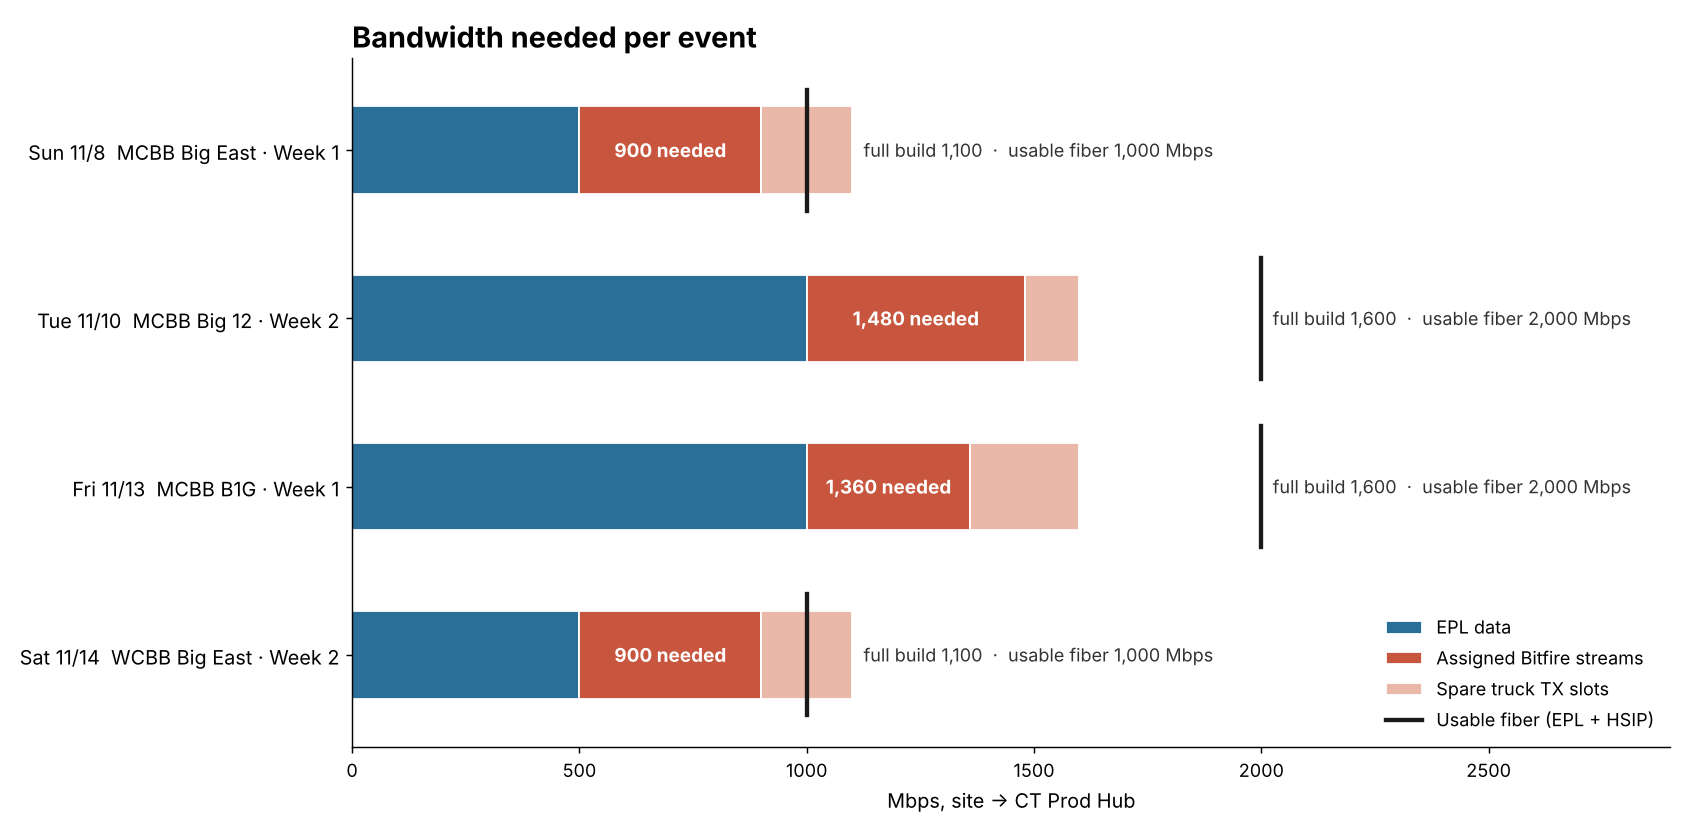
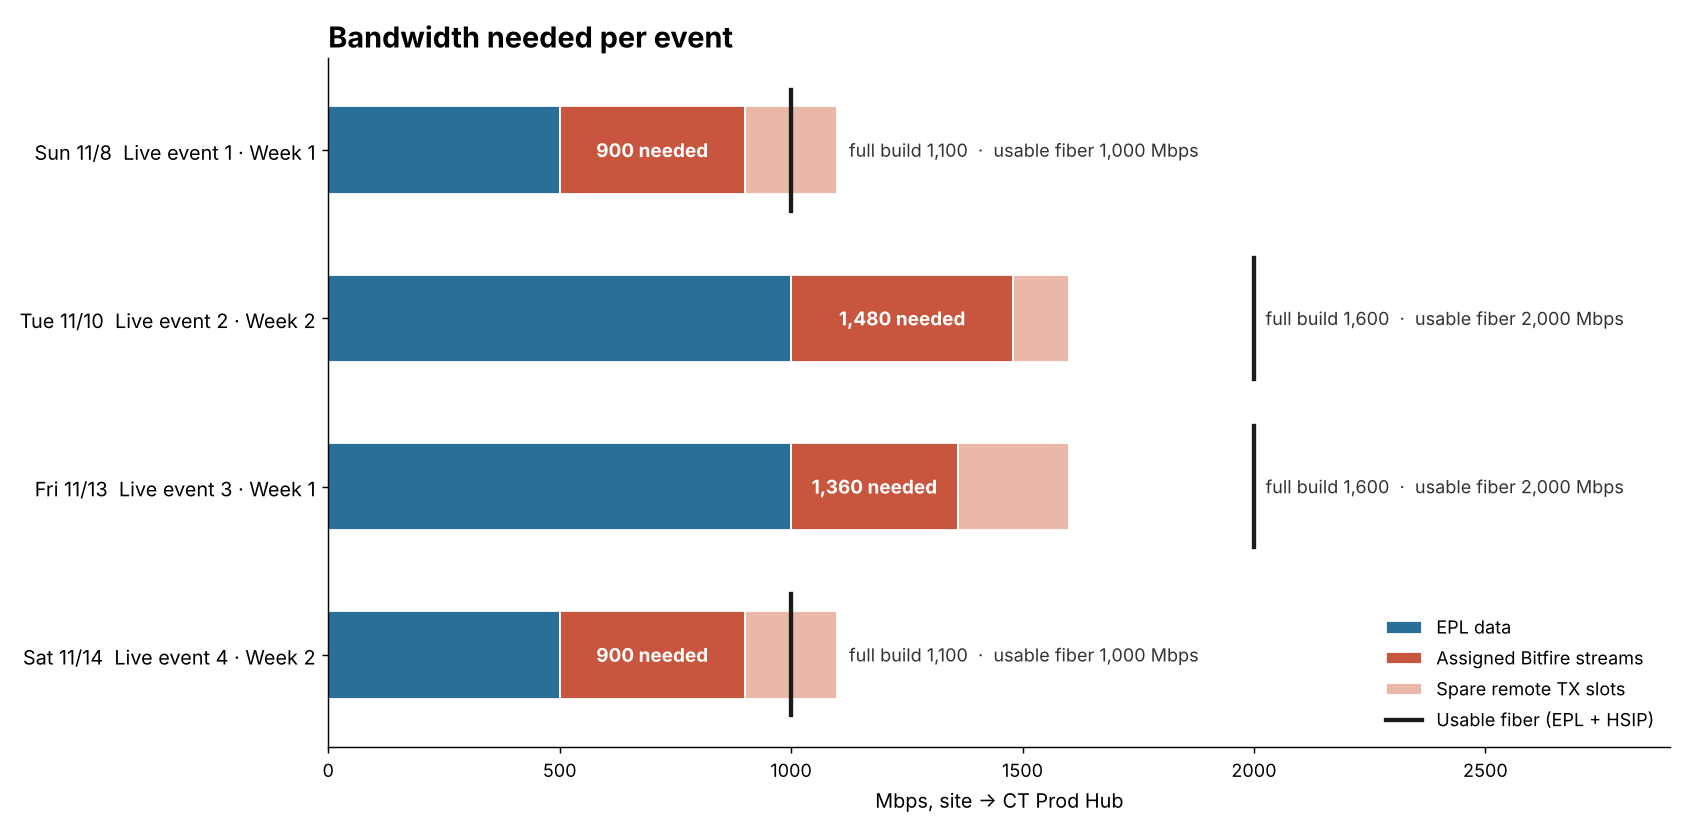
demand-forecast: generic live events and remotes
Events are now Live event 1-4 with the event week, remotes are Remote 1-4,
and no sport, league, team, venue or vendor names appear in the outputs.

Claude-Session: https://claude.ai/code/session_011mjtxrCPiFfQrJvPDMx1Rm

diff --git a/demand-forecast/demand_forecast_model.py b/demand-forecast/demand_forecast_model.py
@@ -2,8 +2,8 @@
 demand-forecast — NetworkX model of per-event bandwidth from the BOC
 event workbooks (demand-forecast/*.xlsx).
 
-Each workbook is one remote production. The program reads two sheets:
-  * BOC          event name, date, game time, TX window, network, truck, PCRs
+Each workbook is one remote live sports production. The program reads two sheets:
+  * BOC          event name, date, game time, TX window, network, remote (truck), PCRs
   * Connectivity data circuits (EPL, Bitfire HSIP), Bitfire streams in each
                  direction, bonded-cellular (LiveU) streams
 
@@ -12,15 +12,15 @@ Bandwidth rules (all in Mbps)
     such as "WE TAKE 500MB" caps the usable rate at that figure.
   * A Bitfire stream marked "*40" is 40 Mbps.
   * A stream is ASSIGNED when it has a description (other than "Unassigned")
-    or a destination port; otherwise it is a SPARE encoder slot on the truck.
+    or a destination port; otherwise it is a SPARE encoder slot on the remote.
   * Needed  = EPL data + assigned Bitfire streams (site -> CT Prod Hub).
   * Full build = EPL data + every Bitfire slot listed (assigned + spare).
   * Bonded cellular (LiveU) rides the cellular network, not the fiber, and
     is reported separately.
 
 Every circuit and every stream is its own edge in a MultiGraph:
-    TRUCK -- carrier -- CT PROD HUB   (EPL, HSIP circuit, one edge per stream)
-    TRUCK -- LiveU cellular -- CT PROD HUB
+    REMOTE -- carrier -- CT PROD HUB   (EPL, HSIP circuit, one edge per stream)
+    REMOTE -- LiveU cellular -- CT PROD HUB
 
 Graphics (straight lines only, every line checked for visibility):
   * bandwidth_per_event.png   stacked bars: needed vs full build vs circuit
@@ -50,7 +50,7 @@ from matplotlib.patches import Circle, FancyBboxPatch
 
 HERE = os.path.dirname(os.path.abspath(__file__))
 STREAM_MBPS = 40           # "*40" Bitfire stream
-HUB = "CT Prod Hub"        # production hub the trucks feed (sanitized name)
+HUB = "CT Prod Hub"        # production hub the remotes feed (sanitized name)
 YEAR = 2026
 BLACK = "#1a1a1a"
 C_EPL, C_UP, C_SPARE, C_DOWN, C_CELL = "#2a6f97", "#c8553d", "#e9b8a9", "#588157", "#8a6fb3"
@@ -154,7 +154,7 @@ def load_event(path):
     boc = boc_fields(wb["BOC"])
     rows = connectivity(wb["Connectivity"])
     start, end = parse_window(boc.get("TX WINDOW", ""))
-    truck = re.sub(r"^(GCV|GVC|LMG)\s*-?\s*", "", boc.get("TRUCK", ""), flags=re.I).strip()
+    truck = re.sub(r"^[A-Z]{3}\s*-?\s*(?=\S)", "", boc.get("TRUCK", "").upper()).strip()   # drop vendor prefix
     ev = dict(file=os.path.basename(path), series=boc["SERIES"], matchup=event_type(path, boc["WEEK"]),
               date=boc.get("DATE", ""), game_time=boc.get("GAME TIME", ""),
               network=boc.get("NETWORK", ""), truck=boc.get("TRUCK", ""), truck_short=truck,
@@ -202,7 +202,7 @@ def load_event(path):
             u = (port + " " + r["route"]).upper()
             if truck and port and truck_key(truck) not in port.upper():
                 who = truck_key(re.sub(r"\s*[TR]X.*$", "", port.upper()))
-                others.setdefault(f"truck {who.title()}", []).append(r["label"])
+                others.setdefault("another remote's ports", []).append(r["label"])
             elif ev["venue"] and ev["venue"].upper() not in u:
                 hops = [p for p in r["route"].upper().split(">") if "BITFIRE" in p]
                 who = hops[:1] if r["section"] == "bf_up" else hops[-1:]
@@ -212,7 +212,7 @@ def load_event(path):
         ev["flags"].append(f"rows {', '.join(sorted(set(labs)))} still name {who} (copied from another event)")
     dups = [r["label"] for r in rows if r["dup"]]
     if dups:
-        ev["flags"].append(f"rows {', '.join(dups)} repeat a truck slot already listed (counted once)")
+        ev["flags"].append(f"rows {', '.join(dups)} repeat a remote TX/RX slot already listed (counted once)")
     rows[:] = [r for r in rows if not r["dup"]]
 
     up = [r for r in rows if r["section"] == "bf_up"]
@@ -241,16 +241,17 @@ def load_event(path):
 
 
 def event_type(path, series):
-    """'MCBB Big East · Week 1' from the file name and BOC series; no team names."""
-    m = re.search(r"\b([MW]CBB)\b", os.path.basename(path).replace("_", " ").upper())
-    kind = m.group(1) if m else "CBB"
-    conf = re.sub(r"\s*Basketball.*$", "", series, flags=re.I).strip()
+    """'Week 1' from the BOC series line; no sport, league or team names.
+    Events are numbered 'Live event 1..n' in date order once all are loaded."""
     wk = re.search(r"WEEK\s*(\d+)", series, re.I)
-    return f"{kind} {conf}" + (f" · Week {wk.group(1)}" if wk else "")
+    return f"Week {wk.group(1)}" if wk else ""
 
 
 def truck_key(truck):
-    words = [w for w in re.findall(r"[A-Z]{2,}", truck.upper()) if w not in ("GCV", "GVC", "LMG")]
+    """Distinctive word of a remote's name (vendor prefix skipped) for port matching."""
+    words = re.findall(r"[A-Z]{2,}", truck.upper())
+    if len(words) > 1 and len(words[0]) == 3:
+        words = words[1:]
     return words[0] if words else truck.upper()
 
 
@@ -309,7 +310,7 @@ def draw_bars(events, out):
     y = range(len(events))
     left = [0] * len(events)
     for key, color, lab in (("epl", C_EPL, "EPL data"), ("up_assigned", C_UP, "Assigned Bitfire streams"),
-                            ("up_spare", C_SPARE, "Spare truck TX slots")):
+                            ("up_spare", C_SPARE, "Spare remote TX slots")):
         vals = [ev[key] for ev in events]
         ax.barh(y, vals, left=left, color=color, height=0.52, label=lab, edgecolor="white", lw=1)
         left = [a + b for a, b in zip(left, vals)]
@@ -504,7 +505,7 @@ def report(events, g, peak, vis):
     w(f"Bitfire stream = {STREAM_MBPS} Mbps.  Needed = EPL + assigned site->CT Prod Hub streams.")
     w(f"Graph: {g.number_of_nodes()} nodes, {g.number_of_edges()} edges (one per circuit or stream per hop)")
     w("")
-    w(f"{'Date':6} {'Event':32} {'Truck':14} {'EPL':>5} {'HSIP':>5} {'TX a/t':>7} {'Up':>5} "
+    w(f"{'Date':6} {'Event':32} {'Remote':14} {'EPL':>5} {'HSIP':>5} {'TX a/t':>7} {'Up':>5} "
       f"{'RX a/t':>7} {'Down':>5} {'Needed':>7} {'Full':>6} {'HSIP%':>6} {'Full%':>6} Cell")
     for ev in events:
         w(f"{ev['game_day']:%m/%d} {ev['matchup'][:32]:32} {ev['truck'][:14]:14} {ev['epl']:5.0f} "
@@ -526,7 +527,7 @@ def report(events, g, peak, vis):
 
 
 def write_csv(events, path):
-    cols = ["date", "event", "network", "truck", "carrier", "tx_start", "tx_end", "epl_mbps",
+    cols = ["date", "event", "network", "remote", "carrier", "tx_start", "tx_end", "epl_mbps",
             "hsip_mbps", "tx_assigned", "tx_slots", "up_assigned_mbps", "up_spare_mbps",
             "rx_assigned", "rx_slots", "down_assigned_mbps", "needed_mbps", "full_build_mbps",
             "fiber_usable_mbps", "hsip_util", "hsip_full_util", "liveu_up", "liveu_down"]
@@ -550,6 +551,9 @@ def main(argv=None):
     files = a.xlsx or sorted(glob.glob(os.path.join(HERE, "*.xlsx")))
     os.makedirs(a.out, exist_ok=True)
     events = sorted((load_event(f) for f in files), key=lambda e: e["game_day"])
+    for i, ev in enumerate(events):
+        ev["matchup"] = f"Live event {i + 1}" + (f" · {ev['matchup']}" if ev["matchup"] else "")
+        ev["truck"] = ev["truck_short"] = f"Remote {i + 1}"   # sanitized: no truck or vendor names
     g = build_graph(events)
     vis = check_visibility(g, events)
     draw_bars(events, os.path.join(a.out, "bandwidth_per_event.png"))

diff --git a/demand-forecast/README.md b/demand-forecast/README.md
@@ -1,45 +1,45 @@
 # demand-forecast
 
-Bandwidth needed per event for remote college-basketball productions, built from the event planning workbooks and modelled in NetworkX. It is meant as a shared reference for **demand and event planning**: what each event needs, where the circuits run tight, and when events stack up at the production hub.
+Bandwidth needed per event for remote live sports productions, built from the event planning workbooks and modelled in NetworkX. It is meant as a shared reference for **demand and event planning**: what each event needs, where the circuits run tight, and when events stack up at the production hub.
 
-Events are named by type (men's or women's college basketball, conference, week), not by teams or venues. **CT Prod Hub** is the production hub every truck feeds.
+Events are named generically (Live event 1–4 and the event week) and remotes as Remote 1–4, with no sport, league, team, venue or vendor names. **CT Prod Hub** is the production hub every remote feeds.
 
 ![Bandwidth needed per event](bandwidth_per_event.png)
 
 ## The week at a glance (11/8 – 11/14)
 
-| Game day | Event | Truck | Carrier | EPL data | Bitfire HSIP | Streams up | Needed | Full build | HSIP used |
+| Game day | Event | Remote | Carrier | EPL data | Bitfire HSIP | Streams up | Needed | Full build | HSIP used |
 |---|---|---|---|--:|--:|--:|--:|--:|--:|
-| Sun 11/8 | MCBB Big East · Week 1 | GCV Apollo | Lumen | 500 | 500 | 10 of 15 | **900** | 1,100 | 80% |
-| Tue 11/10 | MCBB Big 12 · Week 2 | GCV Gemini | Lumen | 1,000 | 1,000 | 12 of 15 | **1,480** | 1,600 | 48% |
-| Fri 11/13 | MCBB B1G · Week 1 | LMG MU-5 | AT&T | 1,000 | 1,000 | 9 of 15 | **1,360** | 1,600 | 36% |
-| Sat 11/14 | WCBB Big East · Week 2 | GCV Webby | Frontier/Segra | 500 ¹ | 500 ¹ | 10 of 15 | **900** | 1,100 | 80% |
+| Sun 11/8 | Live event 1 · Week 1 | Remote 1 | Lumen | 500 | 500 | 10 of 15 | **900** | 1,100 | 80% |
+| Tue 11/10 | Live event 2 · Week 2 | Remote 2 | Lumen | 1,000 | 1,000 | 12 of 15 | **1,480** | 1,600 | 48% |
+| Fri 11/13 | Live event 3 · Week 1 | Remote 3 | AT&T | 1,000 | 1,000 | 9 of 15 | **1,360** | 1,600 | 36% |
+| Sat 11/14 | Live event 4 · Week 2 | Remote 4 | Frontier/Segra | 500 ¹ | 500 ¹ | 10 of 15 | **900** | 1,100 | 80% |
 
 All figures in Mbps, venue → CT Prod Hub. ¹ 1G circuits, of which 500 Mbps is taken.
 
 ## Talking points for planning
 
 - **Every event needs 900 – 1,480 Mbps** into the hub: the EPL data circuit plus 40 Mbps for each camera stream sent back.
-- **Overlapping events set the real demand.** The B1G and WCBB Big East transmission windows overlap from Fri 11/13 10:00 to Sat 11/14 00:59 ET, putting **2,260 Mbps** on the hub at once (2,700 if both trucks lit every slot). The rest of the week peaks at 1,480.
-- **A 500 Mbps HSIP holds 12 streams.** Both Big East events send 10 streams (400 Mbps, 80% of the circuit). Adding a third camera, or lighting all 15 truck slots (600 Mbps), would overrun it. A show that may grow past 12 streams should be ordered on a 1G HSIP.
-- **1G HSIP leaves room.** The Big 12 and B1G events use under half of theirs, so late camera adds there are safe.
+- **Overlapping events set the real demand.** The transmission windows of Live events 3 and 4 overlap from Fri 11/13 10:00 to Sat 11/14 00:59 ET, putting **2,260 Mbps** on the hub at once (2,700 if both remotes lit every slot). The rest of the week peaks at 1,480.
+- **A 500 Mbps HSIP holds 12 streams.** Live events 1 and 4 send 10 streams (400 Mbps, 80% of the circuit). Adding a third camera, or lighting all 15 remote TX slots (600 Mbps), would overrun it. A show that may grow past 12 streams should be ordered on a 1G HSIP.
+- **1G HSIP leaves room.** Live events 2 and 3 use under half of theirs, so late camera adds there are safe.
 - **Returns are small.** Two program returns per event, 80 Mbps back to the venue.
 - **LiveU bonded cellular** (4 streams at three of the four events) is backup on the cellular network and is not counted in the fiber totals.
-- **Clean up the workbooks before they go out.** Three of the four still carry rows copied from another event (another truck's port numbers or another venue on the spare slots), and three list one truck slot twice. See `workbook_flags.csv`.
+- **Clean up the workbooks before they go out.** Three of the four still carry rows copied from another event (another remote's port numbers or another venue on the spare slots), and three list one remote slot twice. See `workbook_flags.csv`.
 
 ![Concurrent demand into the CT Prod Hub](hub_timeline.png)
 
 ## How each event connects
 
-One straight line per circuit and per stream: EPL data (blue), the Bitfire HSIP circuit (black), each 40 Mbps camera stream up (red), returns down (green), spare truck slots (dashed) and LiveU cellular (purple).
+One straight line per circuit and per stream: EPL data (blue), the Bitfire HSIP circuit (black), each 40 Mbps camera stream up (red), returns down (green), spare remote slots (dashed) and LiveU cellular (purple).
 
 ![Event transport paths](event_paths.png)
 
 ## Planning rules used
 
 - A Bitfire stream is 40 Mbps.
-- **Needed** = EPL data + assigned camera streams. **Full build** = EPL data + all 15 truck TX slots.
-- A stream is assigned when the workbook gives it a camera or a service ID; the rest are spare slots on the truck (15 TX and 5 RX per truck). A slot listed twice counts once.
+- **Needed** = EPL data + assigned camera streams. **Full build** = EPL data + all 15 remote TX slots.
+- A stream is assigned when the workbook gives it a camera or a service ID; the rest are spare slots on the remote (15 TX and 5 RX per remote). A slot listed twice counts once.
 - Where a 1G circuit is marked as taking 500 Mbps, 500 is used.
 - Concurrency uses each event's transmission window (ET).
 
@@ -60,4 +60,4 @@ pip install networkx matplotlib openpyxl
 python demand_forecast_model.py path/to/workbooks/*.xlsx --out .
 ```
 
-The event workbooks themselves are not in this repo. The model is a `MultiGraph` with, for each event, truck → carrier → CT Prod Hub (one edge per circuit and per stream on each hop) and truck → LiveU → CT Prod Hub. Every drawing uses straight lines, parallel circuits are offset side by side, and each run checks that no line crosses a node it doesn't end on.
+The event workbooks themselves are not in this repo. The model is a `MultiGraph` with, for each event, remote → carrier → CT Prod Hub (one edge per circuit and per stream on each hop) and remote → LiveU → CT Prod Hub. Every drawing uses straight lines, parallel circuits are offset side by side, and each run checks that no line crosses a node it doesn't end on.

diff --git a/README.md b/README.md
@@ -8,4 +8,4 @@ its own README.
 | [backbone5](backbone5/) | Backbone1 core + edges with estimated per-link latency |
 | [lowlatency-plan1](lowlatency-plan1/) | Low Latency Prem-to-Cloud Plan1: 10-site backbone with AWS and Internet on-ramps, one line per circuit, NJ Metro and London region boxes, per-circuit one-way latency on diverse paths, a KMZ of every path and path maps |
 | [lowlatency-plan2](lowlatency-plan2/) | Low Latency Prem-to-Cloud Plan2: Plan1 footprint plus ASH as a second hub (11 sites), AWS and Internet on-ramps, one line per circuit, NJ Metro and London region boxes, per-circuit one-way latency on diverse paths |
-| [demand-forecast](demand-forecast/) | Event demand forecast: bandwidth needed per remote college-basketball event into the CT Prod Hub, one line per circuit and stream, concurrent hub demand across TX windows, and workbook checks for event planning |
+| [demand-forecast](demand-forecast/) | Event demand forecast: bandwidth needed per remote live sports event into the CT Prod Hub, one line per circuit and stream, concurrent hub demand across TX windows, and workbook checks for event planning |
